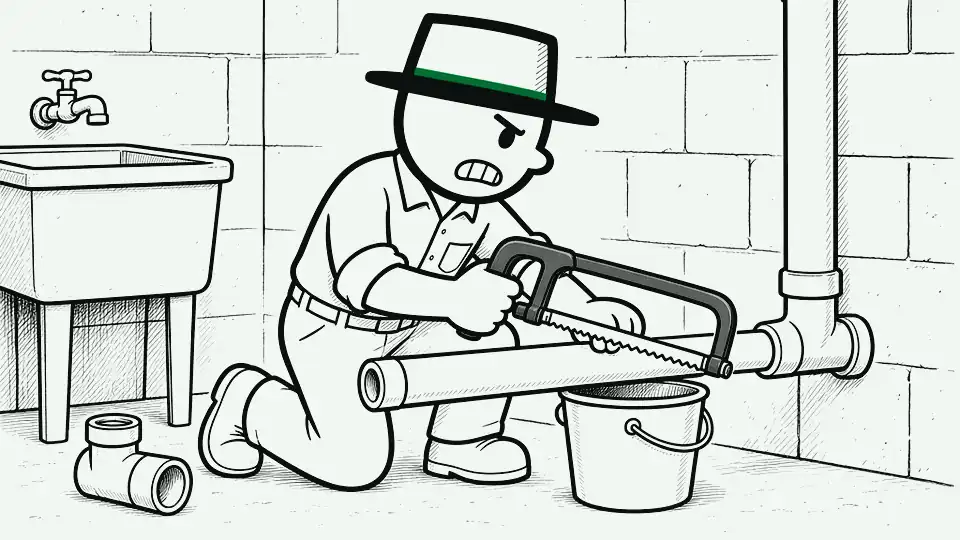
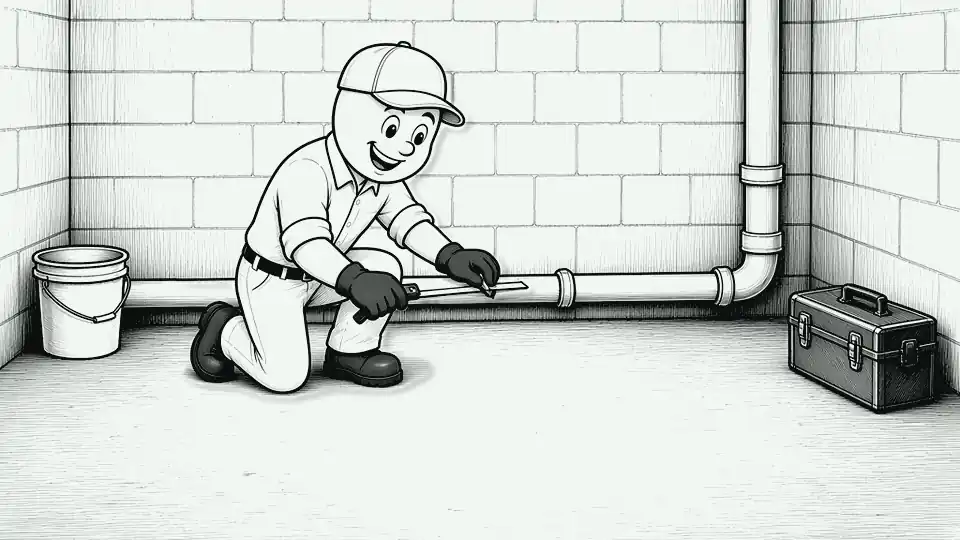
scenes: cleanout redrawn in v7 hand-inked style (6 frames)

diff --git a/scenes/cleanout.js b/scenes/cleanout.js
@@ -1,1 +1,1 @@
-(window.EESceneData=window.EESceneData||{})["cleanout"]={"kind":"kf","w":960,"h":540,"title":"Cleanout installed","alt":"Fixtures off-limits first, the old drain section cut out, primer and cement on the new fitting, the fitting pushed home, the threaded cleanout plug snugged with a wrench, and a running-water test.","frames":[{"src":"scenes/kf/cleanout-1.webp?v=6","hold":560,"tw":{"x":-4},"o":[{"x":38,"y":234,"t":"word","text":"DON'T USE","s":32}]},{"src":"scenes/kf/cleanout-2.webp?v=6","hold":560,"tw":{"y":-6}},{"src":"scenes/kf/cleanout-3.webp?v=6","hold":560,"tw":{"x":5,"ms":240},"o":[{"x":525,"y":206,"t":"effort","a":-40}]},{"src":"scenes/kf/cleanout-4.webp?v=6","hold":560,"tw":{"sy":0.99,"ms":200},"o":[{"x":600,"y":216,"t":"effort","a":-30}]},{"src":"scenes/kf/cleanout-5.webp?v=6","hold":760,"tw":{"y":8,"r":-1,"ms":300},"o":[{"x":850,"y":100,"t":"check"}]}],"placeholder":false};
+(window.EESceneData=window.EESceneData||{})["cleanout"]={"kind":"kf","w":960,"h":540,"title":"Cleanout installed","alt":"He measures and marks the drain line, cuts it with a hacksaw, swabs PVC cement on the cut end, pushes a cleanout tee onto the line, snugs the screw-in plug with an adjustable wrench, and gives a thumbs-up.","frames":[{"src":"scenes/kf/cleanout-1.webp?v=7.2","hold":500,"tw":{"x":-3},"o":[{"x":600,"y":43,"t":"word","text":"MEASURE","s":38}]},{"src":"scenes/kf/cleanout-2.webp?v=7.2","hold":520,"tw":{"y":-4},"o":[{"x":600,"y":49,"t":"word","text":"CUT","s":43}]},{"src":"scenes/kf/cleanout-3.webp?v=7.2","hold":480,"tw":{"x":4,"ms":240},"o":[{"x":600,"y":45,"t":"word","text":"CEMENT","s":39}]},{"src":"scenes/kf/cleanout-4.webp?v=7.2","hold":500,"tw":{"sy":0.99,"ms":200},"o":[{"x":600,"y":45,"t":"word","text":"TEE ON","s":39}]},{"src":"scenes/kf/cleanout-5.webp?v=7.2","hold":480,"tw":{"y":-4},"o":[{"x":600,"y":45,"t":"word","text":"PLUG IN","s":39}]},{"src":"scenes/kf/cleanout-6.webp?v=7.2","hold":1000,"tw":{"y":6,"r":-0.8,"ms":300},"o":[{"x":110,"y":100,"t":"check"}]}],"placeholder":false};
